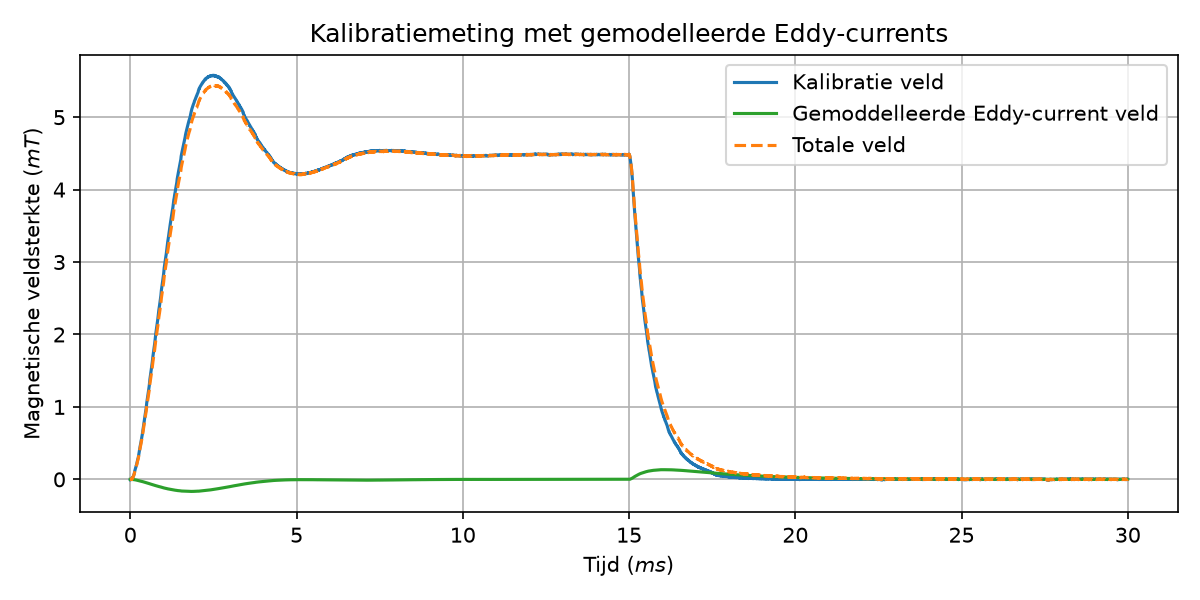
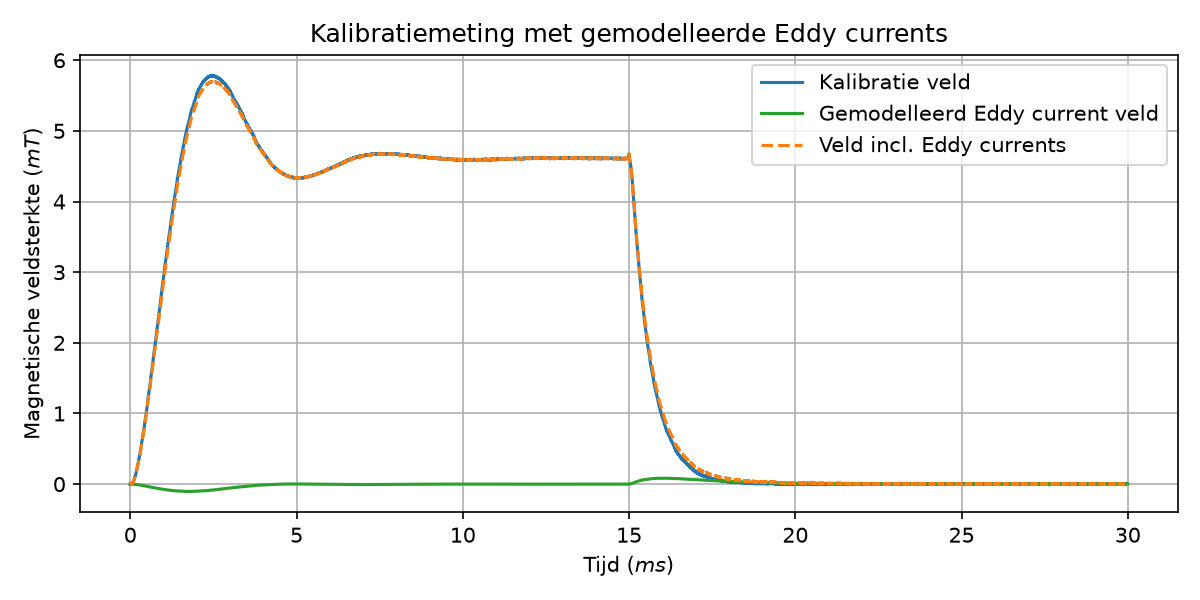
memo plots and changes

Changed region(s): [[0.0308, 0.03, 0.9867, 0.84]]

diff --git a/python/model_eddy_currents.py b/python/model_eddy_currents.py
@@ -1,39 +1,65 @@
-import pandas as pd
-import matplotlib.pyplot as plt
 import numpy as np
+import matplotlib.pyplot as plt
+from scipy.optimize import least_squares
 import pect
 
-gradient_amplitude: float = 10.0
-tau_ms: float = 2.0
-eddy_gain: float = 0.05
 
-calibration = pect.Data("calibration.csv")
+def eddy_model(time, B, tau_ms, gain):
+    """Eddy-current field: exponentially decaying response to dB/dt."""
+    eddy = np.zeros(len(B))
+    dt, dB = np.diff(time), np.diff(B)
+    decay = np.exp(-dt / tau_ms)
+    for i in range(1, len(B)):
+        eddy[i] = eddy[i - 1] * decay[i - 1] - gain * dB[i - 1]
+    return eddy
+
+
+def fit_eddy(time, B, residual, window, p0=(1.5, 0.04)):
+    mask = (time >= window[0]) & (time <= window[1])
+    res = least_squares(
+        lambda p: (eddy_model(time, B, *p) - residual)[mask],
+        x0=p0, bounds=([1e-3, -np.inf], [100.0, np.inf]), x_scale=[1.0, 0.01],
+    )
+    return res.x
+
+
+calibration = pect.Data("modelling/calibration.csv")
+d5mm = pect.Data("modelling/t5mm.csv")
 
 time = calibration.df["time_ms"].to_numpy()
-B = calibration.df["mT"].to_numpy()
+B = calibration.df["normalized"].to_numpy()
+residual = d5mm.df["normalized"].to_numpy() - B
+c = calibration.ceil
 
-# Eddy-current magnetic field (mT, a.u.)
-eddy = np.zeros_like(B, dtype=float)
+fit_window = (17.0, 21.0)
+tau, k = fit_eddy(time, B, residual, fit_window)
+eddy = eddy_model(time, B, tau, k)
+print(f"tau = {tau:.3f} ms, k = {k:.4f}")
 
-for i in range(1, len(time)):
-    dt = time[i] - time[i - 1]
-    decay = np.exp(-dt / tau_ms)
-    dB = B[i] - B[i - 1]
-    eddy[i] = eddy[i - 1] * decay - eddy_gain * dB
-
-calibration.df["coil_field_mT"] = B
-calibration.df["eddy_field"] = eddy
-calibration.df["total_field"] = B + eddy
-
+# Plot 1: calibration with modelled eddy field
 plt.figure(figsize=(8, 4))
-plt.plot(time, B, label="Kalibratie veld")
-plt.plot(time, eddy, label="Gemoddelleerde Eddy-current veld", color="tab:green")
-plt.plot(time, B + eddy, "--", label="Totale veld", color="tab:orange")
-plt.title("Kalibratiemeting met gemodelleerde Eddy-currents")
+plt.plot(time, B * c, label="Kalibratie veld")
+plt.plot(time, eddy * c, color="tab:green", label="Gemodelleerd Eddy current veld")
+plt.plot(time, (B + eddy) * c, "--", color="tab:orange", label="Veld incl. Eddy currents")
+plt.title("Kalibratiemeting met gemodelleerde Eddy currents")
 plt.xlabel("Tijd $(ms)$")
 plt.ylabel("Magnetische veldsterkte $(mT)$")
 plt.legend()
 plt.grid(True)
 plt.tight_layout()
 plt.savefig("modelled_eddy_field.png", dpi=150)
-#plt.show()
+plt.close()
+
+# Plot 2: model vs measured residual
+mask = (time >= 15.0) & (time <= 22.0)
+plt.figure(figsize=(8, 4))
+plt.plot(time[mask], residual[mask] / k, color="tab:orange", label="Gemeten residu")
+plt.plot(time[mask], eddy[mask] / k, color="tab:blue", label="Gemodelleerde Eddy currents")
+plt.title("Gemodelleerd en gemeten Eddy current residu (5 mm staal)")
+plt.xlabel("Tijd $(ms)$")
+plt.ylabel("Magnetische veldsterkte $(a.u.)$")
+plt.legend()
+plt.grid(True)
+plt.tight_layout()
+plt.savefig("modelled_and_experimental_eddy_currents.png", dpi=150)
+plt.close()
